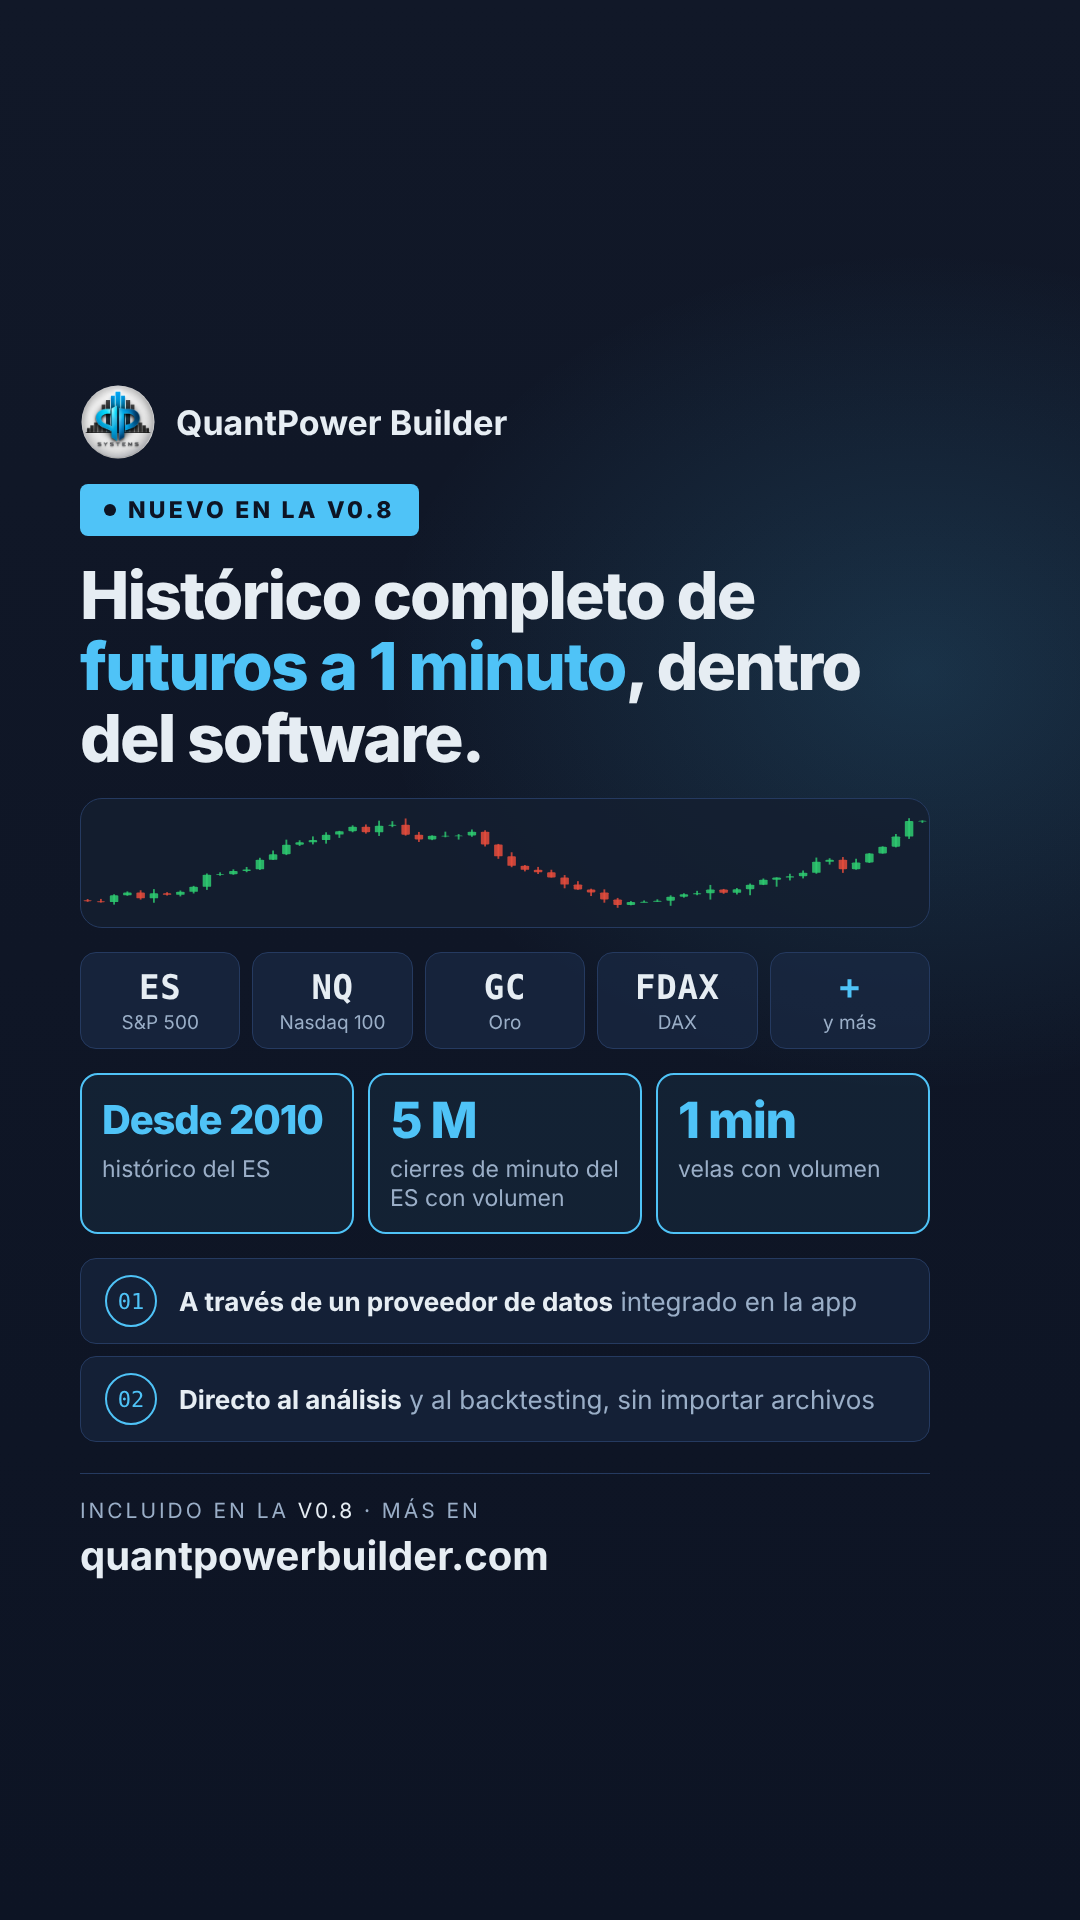
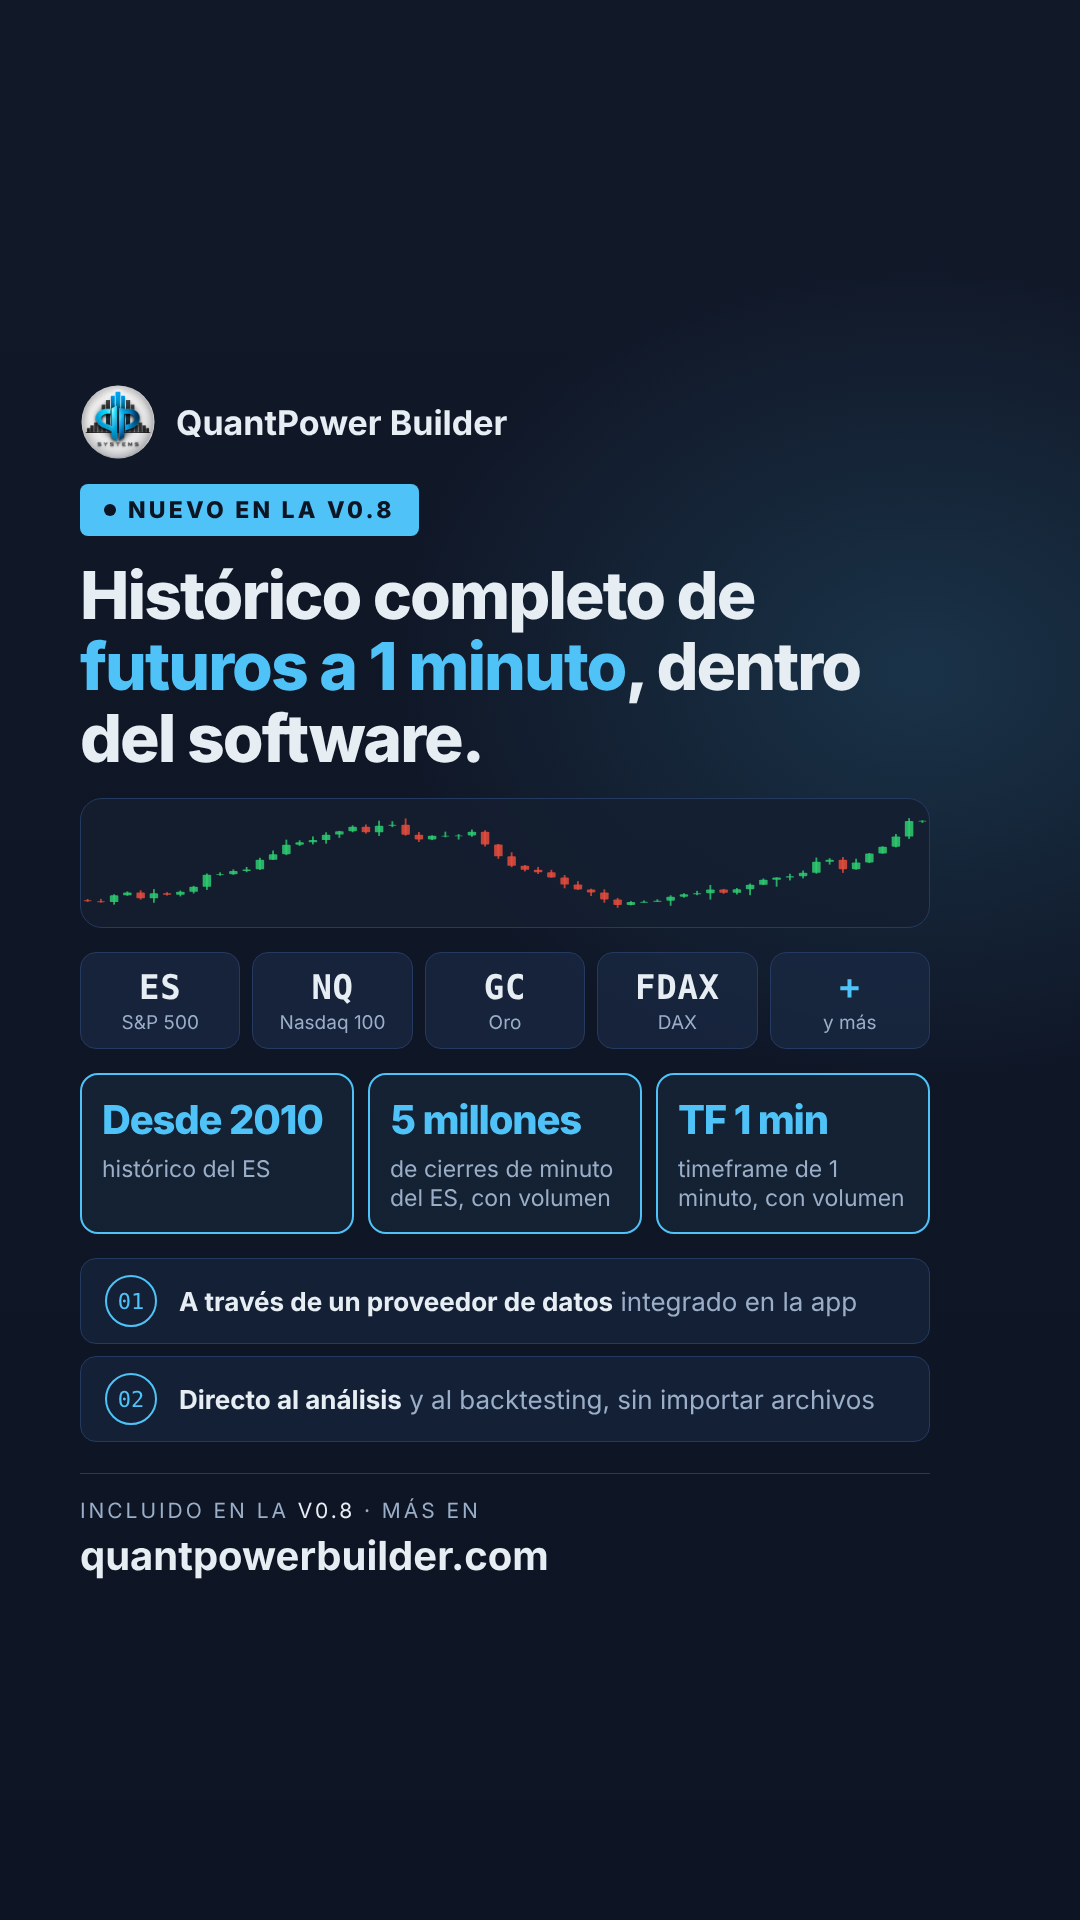
Redes: portada v0.8 con «5 millones» de cierres y «TF 1 min»
Claude-Session: https://claude.ai/code/session_01HHLZi1SgtUefWHesdsfYTT

Changed region(s): [[0.3667, 0.5625, 0.5806, 0.625], [0.6417, 0.5625, 0.825, 0.625]]

diff --git a/redes/11-futuros-1min/cartel.html b/redes/11-futuros-1min/cartel.html
@@ -107,8 +107,8 @@
   </section>
   <section class="stats">
     <div class="stat"><strong class="yr">Desde 2010</strong><span>histórico del ES</span></div>
-    <div class="stat"><strong>5 M</strong><span>cierres de minuto del ES con volumen</span></div>
-    <div class="stat"><strong>1 min</strong><span>velas con volumen</span></div>
+    <div class="stat"><strong class="yr">5 millones</strong><span>de cierres de minuto del ES, con volumen</span></div>
+    <div class="stat"><strong class="yr">TF 1 min</strong><span>timeframe de 1 minuto, con volumen</span></div>
   </section>
   <section class="topics">
     <div class="topic"><i>01</i><span><b>A través de un proveedor de datos</b> integrado en la app</span></div>

diff --git a/redes/11-futuros-1min/texto-post.md b/redes/11-futuros-1min/texto-post.md
@@ -12,11 +12,11 @@ El proveedor no se nombra.
 
 **Descripción (una línea):**
 
-🆕 v0.8: el ES desde 2010 a 1 minuto, 5 M de cierres con volumen #QuantPowerBuilder
+🆕 v0.8: el ES desde 2010 a 1 minuto, 5 millones de cierres de 1 min con volumen #QuantPowerBuilder
 
 **Comentario fijado:**
 
-Nuevo en la v0.8 de QuantPower Builder: el histórico completo de futuros como ES, NQ, GC o FDAX en velas de 1 minuto, a través de un proveedor de datos integrado. Solo del ES, desde 2010: 5 millones de cierres de minuto con volumen. Directo al análisis y al backtesting.
+Nuevo en la v0.8 de QuantPower Builder: el histórico completo de futuros como ES, NQ, GC o FDAX en timeframe de 1 minuto (TF 1 min), a través de un proveedor de datos integrado. Solo del ES, desde 2010: 5 millones de cierres de minuto con volumen. Directo al análisis y al backtesting.
 👉 quantpowerbuilder.com
 #QuantPowerBuilder #futuros #ES #NQ #FDAX #backtesting #trading
 
